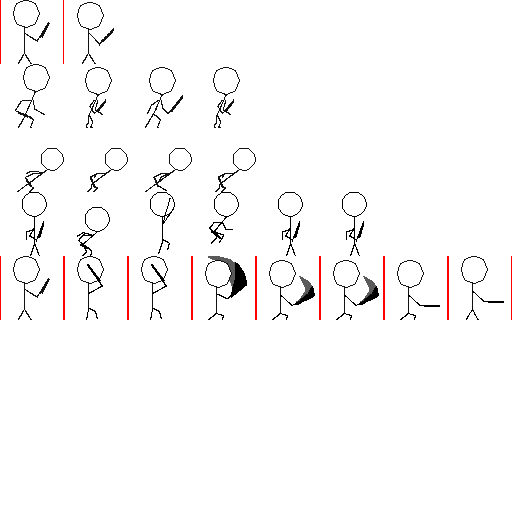
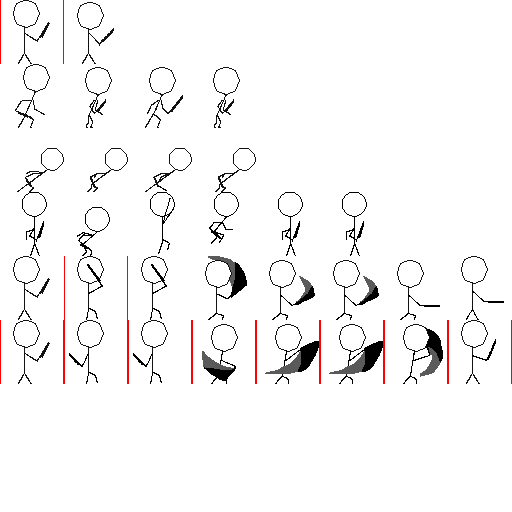
second attack of combo

diff --git a/src/application/player.c b/src/application/player.c
@@ -18,7 +18,8 @@ typedef enum
     PS_IDLE =                   0,
     PS_WALKING =                1,
     PS_JUMPING =                2,
-    PS_ATTACK1 =                3
+    PS_ATTACK1 =                3,
+    PS_ATTACK2 =                4
 } PlayerState;
 
 typedef enum
@@ -42,6 +43,7 @@ uint8_t left, right;
 PlayerState currentState = PS_IDLE;
 PhysicsEntity *phys = NULL;
 uint8_t attacking = 0;
+uint8_t canCombo = 0;
 
 void player_create(PhysicsEntity *self)
 {
@@ -56,6 +58,7 @@ void player_think(Entity *self)
 {
     uint32_t *anim = NULL;
     float animSpeed = 0.0f;
+    uint32_t frame = 0;
     if(!self) return;
 
     player_walking();
@@ -66,7 +69,7 @@ void player_think(Entity *self)
     }
     else if( attacking )
     {
-        currentState = PS_ATTACK1;
+        currentState = PS_ATTACK1 + attacking - 1;
     }
     else if(walkDir != 0.0f)
     {
@@ -111,6 +114,28 @@ void player_think(Entity *self)
     case PS_ATTACK1:
         anim = pj_anim_slash_down();
         animSpeed = pj_anim_slash_down_speed();
+        frame = gf2d_animation_get_frame(self->anim);
+        if( self->anim->animation != anim[0] )
+        {
+            gf2d_animation_play(self->anim, anim[0], anim[1]);
+            self->anim->playbackSpeed = animSpeed;
+            canCombo = 0;
+        }
+        else if ( frame == anim[1]-1 )
+        {
+            attacking = 0;
+            canCombo = 0;
+        }
+        else if ( frame >= anim[1]-4 )
+        {
+            canCombo = 1;
+        }
+        break;
+
+    case PS_ATTACK2:
+        anim = pj_anim_slash_up();
+        animSpeed = pj_anim_slash_up_speed();
+        canCombo = 0;
         if( self->anim->animation != anim[0] )
         {
             gf2d_animation_play(self->anim, anim[0], anim[1]);
@@ -161,10 +186,13 @@ void player_walking()
 {
     float dir = 0.0f;
 
+    if(attacking) return;
+
     dir = gf2d_input_joystick_get_axis(0, 0);
     if( dir != 0.0f ) 
     {
         walkDir = dir;
+        phys->entity->anim->rend->flip.x = (int)walkDir + 1;
         return;
     }
 
@@ -196,9 +224,9 @@ void player_jumping(Entity *self)
 
 void player_attacking()
 {
-    if( !gf2d_input_key_just_pressed(SDL_SCANCODE_Z) && !attacking ) return;
+    if( !gf2d_input_key_just_pressed(SDL_SCANCODE_Z) ) return;
     if( !phys->_onFloor ) return;
         
-    attacking = 1;
+    if(!attacking || canCombo) attacking++;
     walkDir = 0.0f;
 }

diff --git a/src/application/punti_jordan.c b/src/application/punti_jordan.c
@@ -13,6 +13,8 @@ typedef struct
     float                   jumpingSpeed;
     uint32_t                slashDown[2];
     float                   slashDownSpeed;
+    uint32_t                slashUp[2];
+    float                   slashUpSpeed;
 } PuntiJordanConfig;
 
 static PuntiJordanConfig pj_config = {0};
@@ -29,6 +31,7 @@ void punti_jordan_load(const char *filename)
     punti_jordan_load_anim_values(pj_config.walking, &pj_config.walkingSpeed, sj_object_get_value(json, "walking"));
     punti_jordan_load_anim_values(pj_config.jumping, &pj_config.jumpingSpeed, sj_object_get_value(json, "jumping"));
     punti_jordan_load_anim_values(pj_config.slashDown, &pj_config.slashDownSpeed, sj_object_get_value(json, "slashDown"));
+    punti_jordan_load_anim_values(pj_config.slashUp, &pj_config.slashUpSpeed, sj_object_get_value(json, "slashUp"));
 
     sj_free(json);
 }
@@ -78,4 +81,14 @@ uint32_t *pj_anim_slash_down()
 float pj_anim_slash_down_speed()
 {
     return pj_config.slashDownSpeed;
+}
+
+uint32_t *pj_anim_slash_up()
+{
+    return pj_config.slashUp;
+}
+
+float pj_anim_slash_up_speed()
+{
+    return pj_config.slashUpSpeed;
 }

diff --git a/include/application/punti_jordan.h b/include/application/punti_jordan.h
@@ -17,4 +17,7 @@ float pj_anim_jumping_speed();
 uint32_t *pj_anim_slash_down();
 float pj_anim_slash_down_speed();
 
+uint32_t *pj_anim_slash_up();
+float pj_anim_slash_up_speed();
+
 #endif
